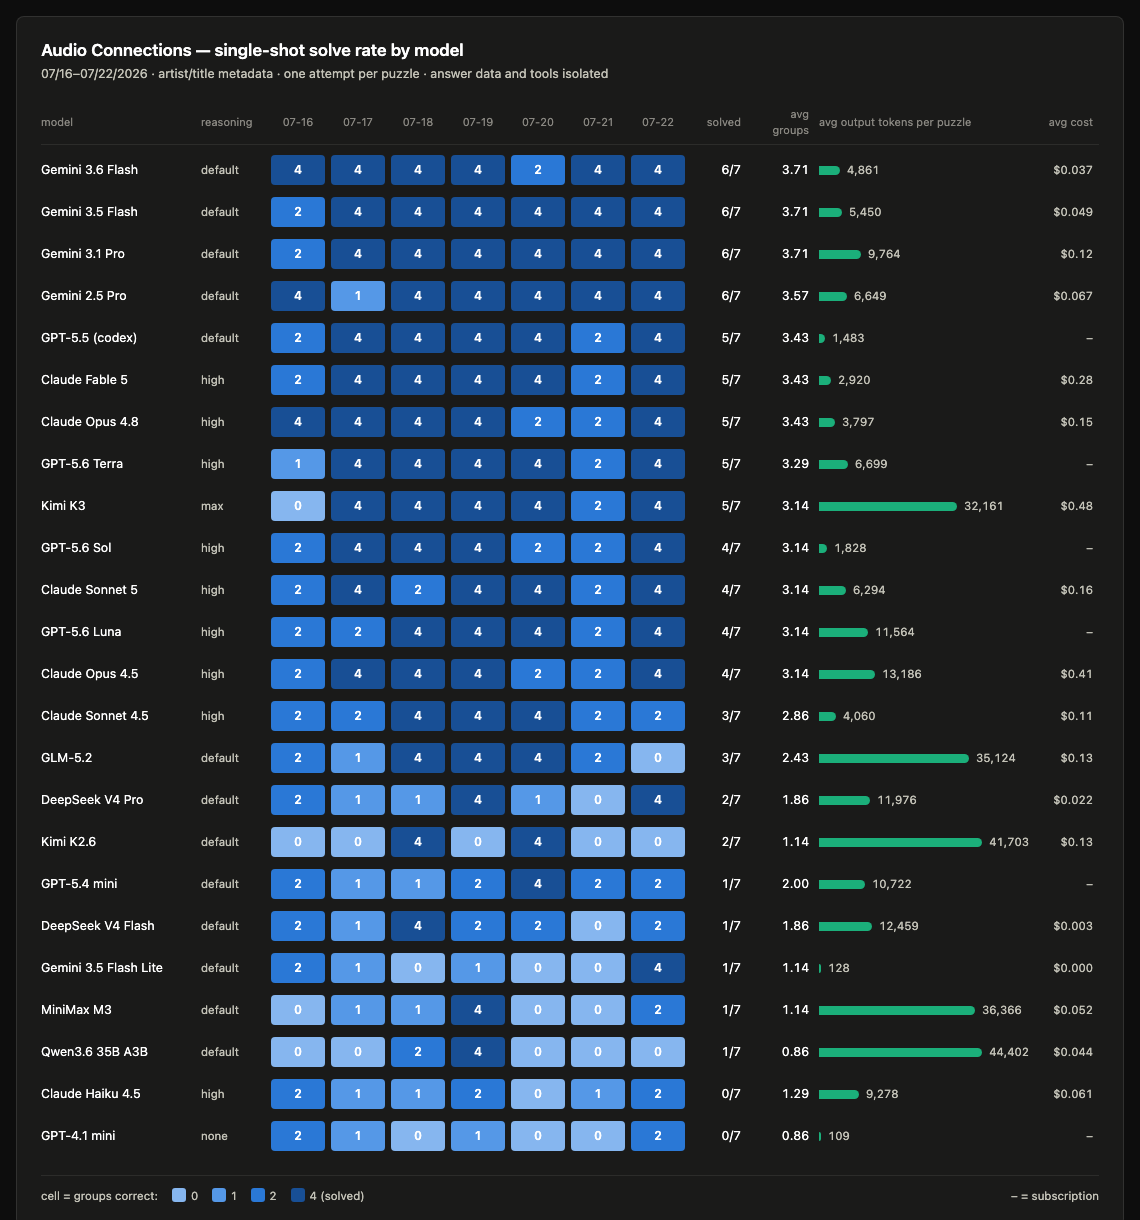
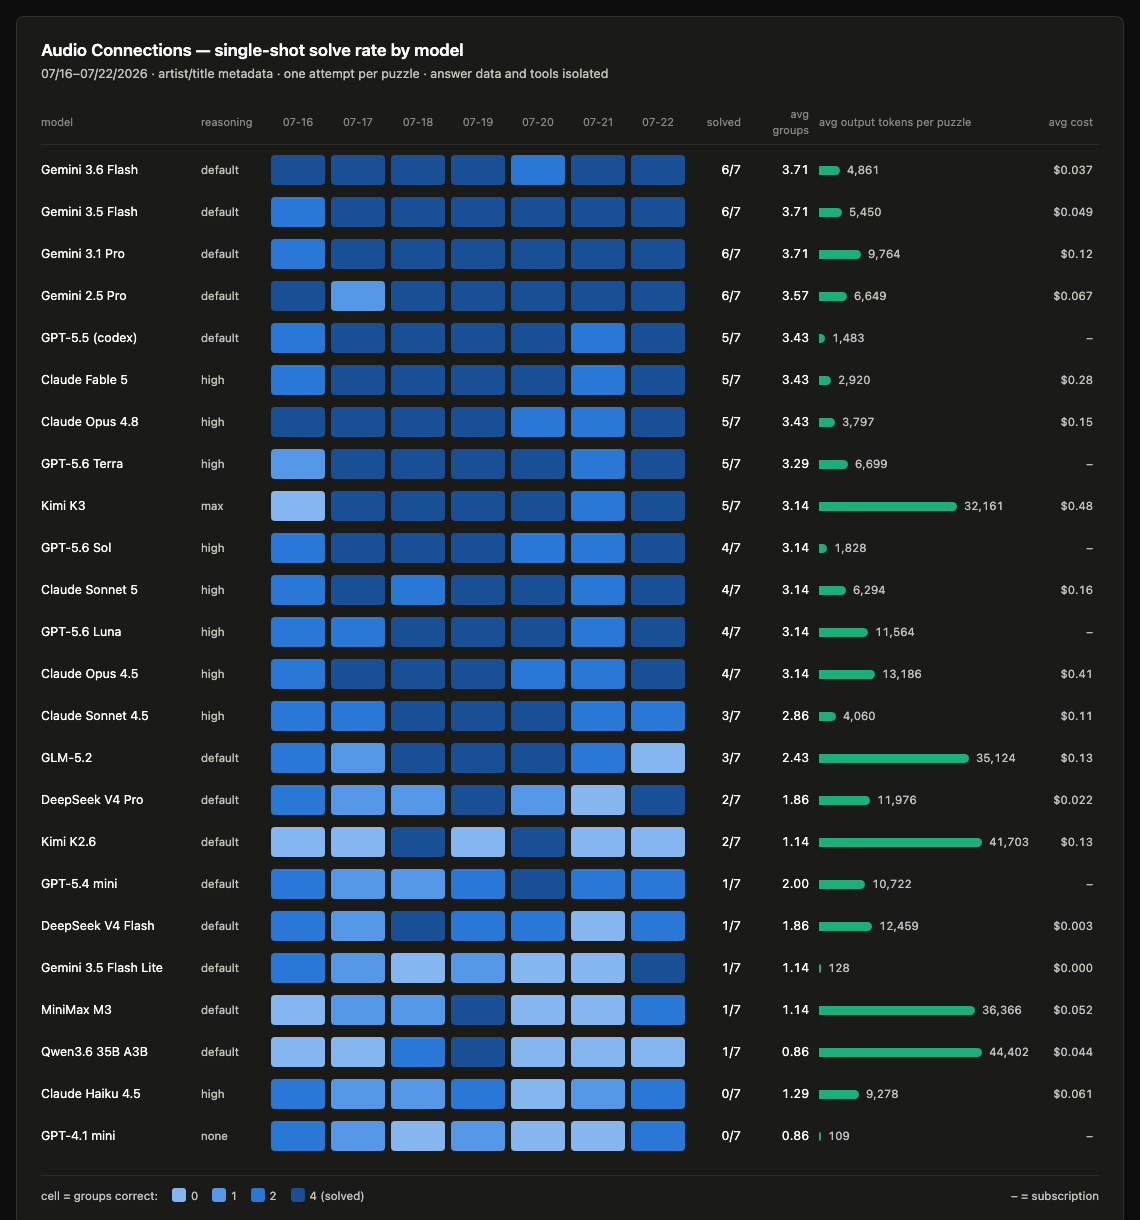
Remove score labels from report cells

diff --git a/viz.py b/viz.py
@@ -111,7 +111,7 @@ def build() -> str:
             )
             cells.append(
                 f'<div class="cell" style="background:{CELL[score]}" '
-                f'title="{date}: {state}"><span>{score}</span></div>'
+                f'title="{date}: {state}"></div>'
             )
         bar_width = max(2, round(tokens / max_tokens * 190))
         cost_text = "–" if cost is None else (
@@ -162,8 +162,7 @@ def build() -> str:
   .name {{ font-size: 12.5px; white-space: nowrap; }}
   .reason {{ color: var(--ink2); font-size: 11.5px; white-space: nowrap; }}
   .cells {{ display: flex; gap: 6px; }}
-  .cell {{ width: 54px; height: 30px; border-radius: 4px; color: #fff;
-    display: grid; place-items: center; font-size: 12px; font-weight: 600; }}
+  .cell {{ width: 54px; height: 30px; border-radius: 4px; }}
   .cell.miss {{ background: transparent; box-shadow: inset 0 0 0 1px var(--hairline); }}
   .solved, .groups {{ font-variant-numeric: tabular-nums; font-size: 12.5px; text-align: right; }}
   .tok {{ display: flex; align-items: center; gap: 7px; }}
